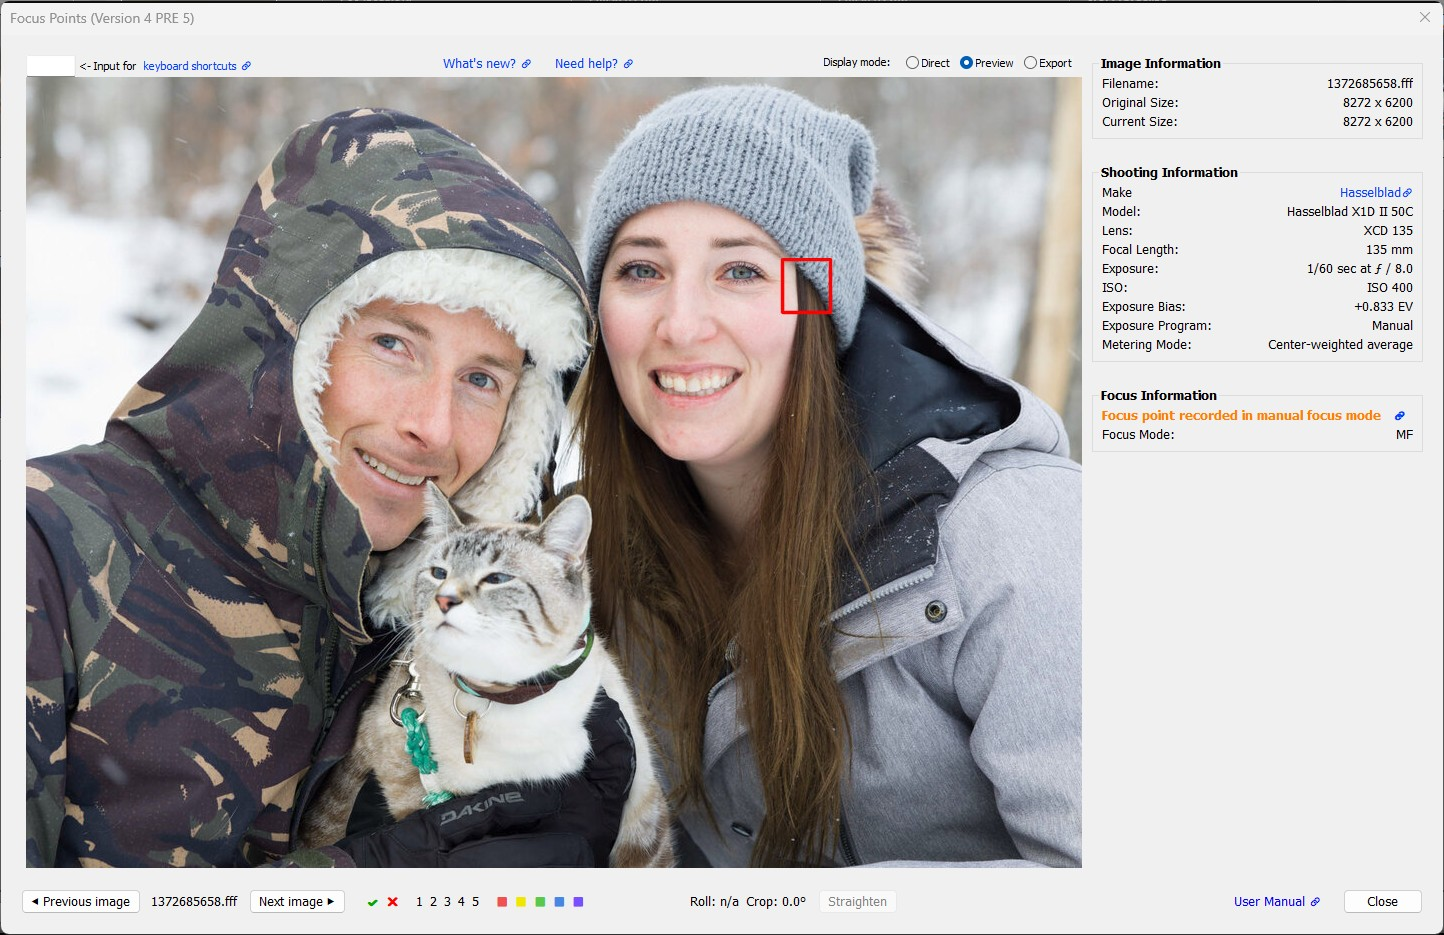
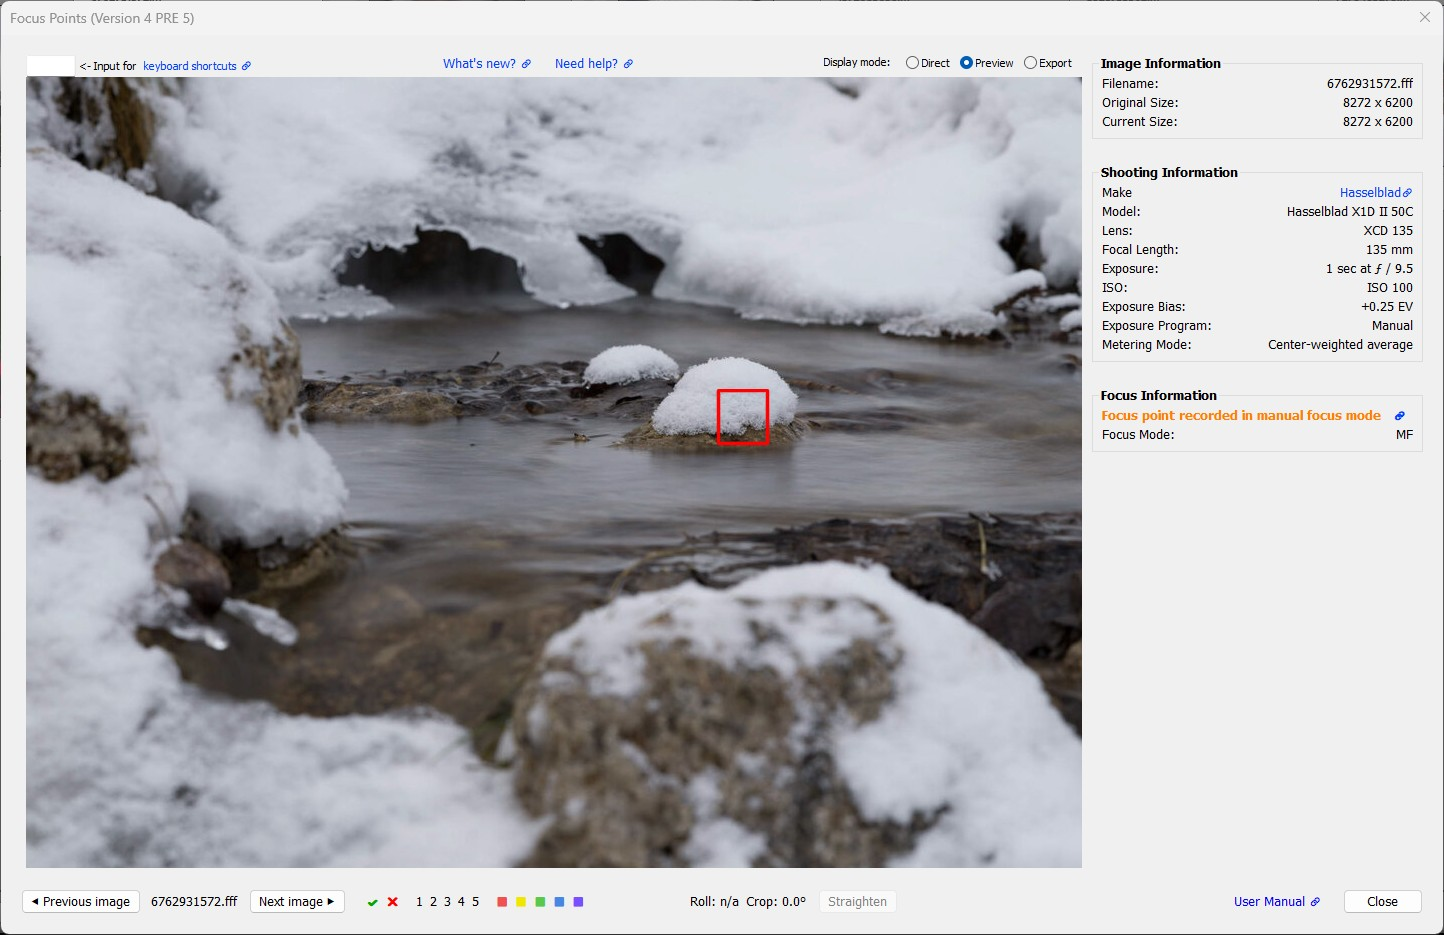
Update docs

diff --git a/docs/Understanding-Focus-Results.md b/docs/Understanding-Focus-Results.md
@@ -2,7 +2,7 @@
 
 ## Success, Warning, and Error Messages
 
-This document explains the various Focus Point Viewer messages displayed at the top of the `Focus Information` section. These messages indicate whether the plugin was successful in detecting and visualizing focus points.
+This document explains the various Focus Point Viewer messages displayed at the top of the `Focus Information` section. These messages indicate whether the plugin was successful in detecting and visualizing focus points:
 
 * [Focus achieved](#focus-achieved)
 * [Focus points outside cropped image area](#focus-points-outside-cropped-image-area)
@@ -22,6 +22,9 @@ Special topics:
 
 * [Back-Button Focus (BBF)](#back-button-focus-bbf)
 * [Focus and Recompose](#focus-and-recompose)
+
+Appendix:
+* [Overview of messages and their meanings](#overview-of-messages-and-their-meanings)
 
 <br>
 
@@ -138,7 +141,7 @@ These functions can help the photographer achieve focus at the selected location
 
 
 ### "Manual focus, no AF points recorded"
-This is a special but very common case of "No focus points recorded". The photo was taken using manual focus (MF), so no autofocus (AF) information is available in the metadata.
+This is a special but very common case of "No focus points recorded". The photo was taken using manual focus (MF), no autofocus (AF) information is available in the metadata.
 
 <img src="images/Understanding 8.jpg" alt="Understanding 8" style="width: 1000px;"/>
 <br><br>
@@ -236,3 +239,24 @@ The camera records the position of the autofocus point used to acquire focus. Ho
 **Example:**
 
 <img src="images/Understanding 14.jpg" alt="Understanding 14" style="width: 1000px;"/>
+<br><br>
+
+## Appendix 
+
+### Overview of messages and their meanings
+
+| Focus Result Message | Type | Meaning |
+|---|:-:|---|
+| **Focus achieved** | Success | The camera reported successful autofocus acquisition for one or more focus points. |
+| **Focus points outside cropped image area** | Warning | Active focus points are partially or completely outside the visible cropped image area. |
+| **Focus points may be misaligned due to Transform** | Warning | Transform or Upright operations may have changed the image geometry, causing focus points and subject detection frames to be incorrectly positioned. |
+| **Subject detected, but focus not achieved** | Warning | A subject or face was detected, but the camera did not record successful focus acquisition. |
+| **Focus points selected, but focus not achieved** | Warning | One or more focus points were selected, but the camera did not record successful focus acquisition. |
+| **No focus points recorded** | Warning | The camera did not record any focus point information. This typically means that focus was not achieved. |
+| **Focus point recorded in manual focus mode** | Warning | The camera recorded a focus area in manual focus mode. This may simply be an area selected for manual-focus assistance, not necessarily where the photographer actually focused. |
+| **Manual focus, no AF points recorded** | Warning | The photo was taken in manual focus mode, and no autofocus information is available in the metadata. |
+| **Focus info missing from file** | Error | The original camera metadata required to process and visualize focus information is missing. |
+| **Camera model not supported** | Error | The camera model is not supported by the plugin. |
+| **Camera maker not supported** | Error | The camera manufacturer is known, but its AF metadata format is not supported by the plugin. |
+| **No camera-specific metadata found** | Error | The camera make and model cannot be identified from the available metadata. |
+| **Severe error encountered** | Error | An unexpected error occurred while reading, processing, or displaying focus information. |
